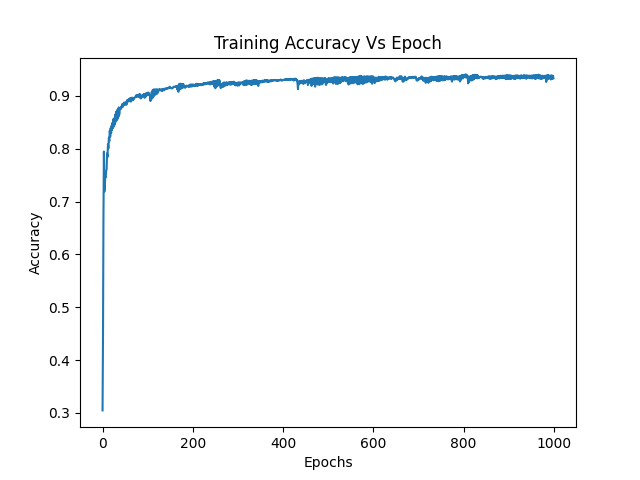
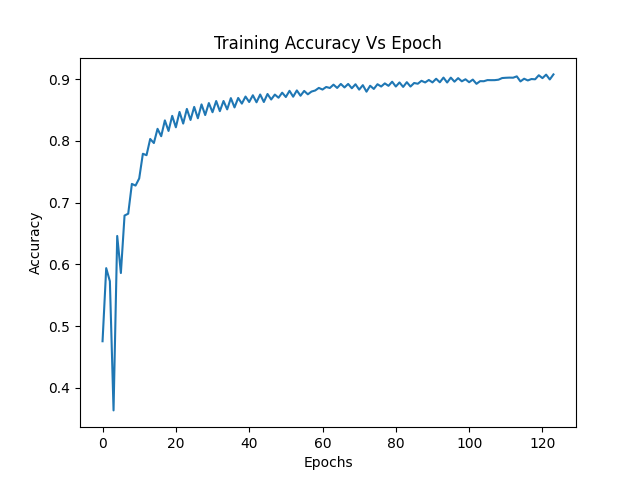
Added early stopping and distinct train/test loss plot creation to train.py and updated graphs graphs as per pull request feedback

diff --git a/recognition/GNN_46980801/train.py b/recognition/GNN_46980801/train.py
@@ -23,6 +23,7 @@ def train(model, data):
 
     #Gradient step 
     optimizer.step()
+        
     return loss.item()
 
 def evaluate(model, data):
@@ -32,7 +33,11 @@ def evaluate(model, data):
         logits = model(data)
         #get predicitons 
         pred = logits.argmax(dim=1)
-        
+
+        criterion = torch.nn.CrossEntropyLoss()
+        #Compute Test Loss
+        loss = criterion(logits[data.train_mask], data.y[data.train_mask])
+
         # Compare the training predictions to the training labels 
         correct_train = (pred[data.train_mask] == data.y[data.train_mask]).sum()
 
@@ -45,7 +50,7 @@ def evaluate(model, data):
         #Report the proportion of correct test predictions 
         acc_test = int(correct_test) / int(data.test_mask.sum())
 
-    return acc_train, acc_test
+    return acc_train, acc_test, loss
 
 #Model definition 
 #input dim, hidden dim to be tuned according ot training
@@ -55,34 +60,57 @@ model = GCNNet(input_dim=128, hidden_dim=64, output_dim=10)
 epochs = range(1000)
 
 losses = []
+test_losses = []
 train_accs = []
 test_accs = []
-
+best_loss = 10e10
 #Every epoch record and display key metrics (loss, train acc, test acc)
 for epoch in epochs:
 
     loss = train(model, graph_data)
     
-    acc_train, acc_test = evaluate(model, graph_data)
+    acc_train, acc_test, test_loss = evaluate(model, graph_data)
     losses.append(loss)
     train_accs.append(acc_train)
     test_accs.append(acc_test)
-    print(f'Epoch: {epoch}, Loss: {loss:.4f}, Train Acc: {acc_train:.4f}, Test Acc: {acc_test:.4f}')
+    test_losses.append(test_loss)
+    loss_difference = best_loss - loss
+    if loss_difference > 10e-4:
+        best_loss = loss
+        patience_counter = 0  
+    else:
+        patience_counter += 1
+
+    # Early stopping check
+    if patience_counter >= 10:
+        print(f"Early stopping at epoch {epoch}")
+        final_epoch = range(epoch + 1)
+        break
+
+    print(f'Epoch: {epoch}, Train Loss: {loss:.4f} , Test Loss {test_loss:.4f}, Train Acc: {acc_train:.4f}, Test Acc: {acc_test:.4f}')
 
 #Save model weights
 torch.save(model.state_dict(), 'weights.pth')
 
-#Loss Plot
+#Training Loss Plot
 plt.figure()
-plt.plot(epochs, losses, label="Losses")
+plt.plot(final_epoch, losses, label="Losses")
 plt.xlabel("Epochs")
-plt.title("Loss Vs Epoch")
+plt.title("Train Loss Vs Epoch")
 plt.ylabel("Loss")
-plt.savefig('graphs/loss.png')
+plt.savefig('graphs/train_loss.png')
+
+#Test Loss Plot
+plt.figure()
+plt.plot(final_epoch, losses, label="Losses")
+plt.xlabel("Epochs")
+plt.title("Test Loss Vs Epoch")
+plt.ylabel("Loss")
+plt.savefig('graphs/test_loss.png')
 
 #Train accuracy plot
 plt.figure()
-plt.plot(epochs, train_accs, label="Training Accuracy")
+plt.plot(final_epoch, train_accs, label="Training Accuracy")
 plt.xlabel("Epochs")
 plt.title("Training Accuracy Vs Epoch")
 plt.ylabel("Accuracy")
@@ -91,7 +119,7 @@ plt.savefig('graphs/train_acc.png')
 
 #test accuracy plot
 plt.figure()
-plt.plot(epochs, test_accs, label="Test Accuracy")
+plt.plot(final_epoch, test_accs, label="Test Accuracy")
 plt.xlabel("Epochs")
 plt.title("Test Accuracy Vs Epoch")
 plt.ylabel("Accuracy")
